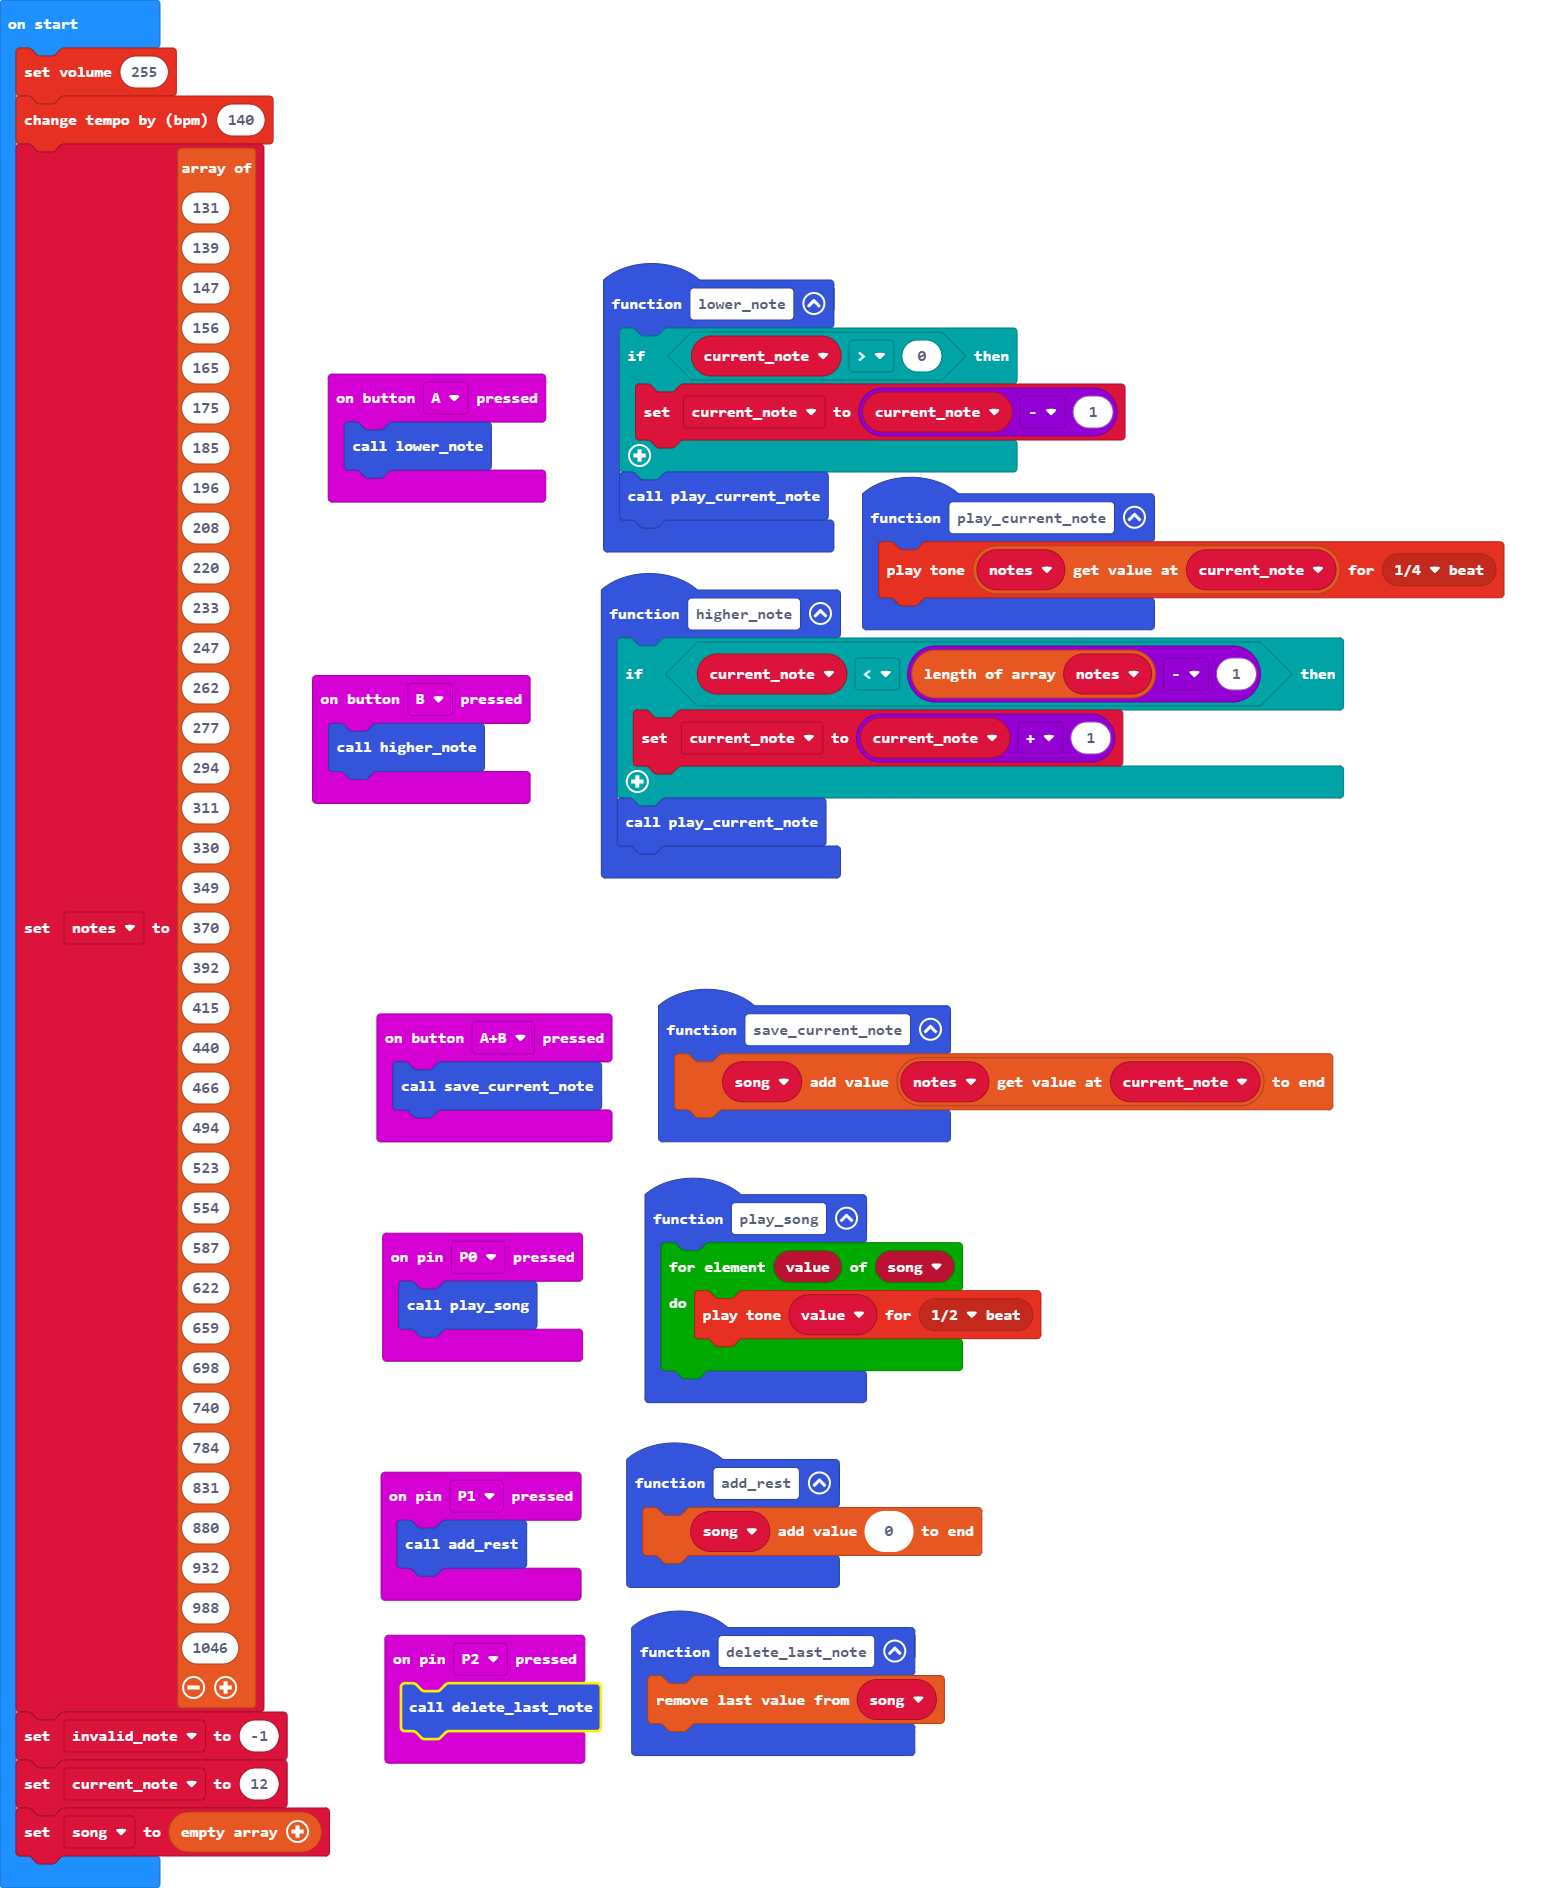
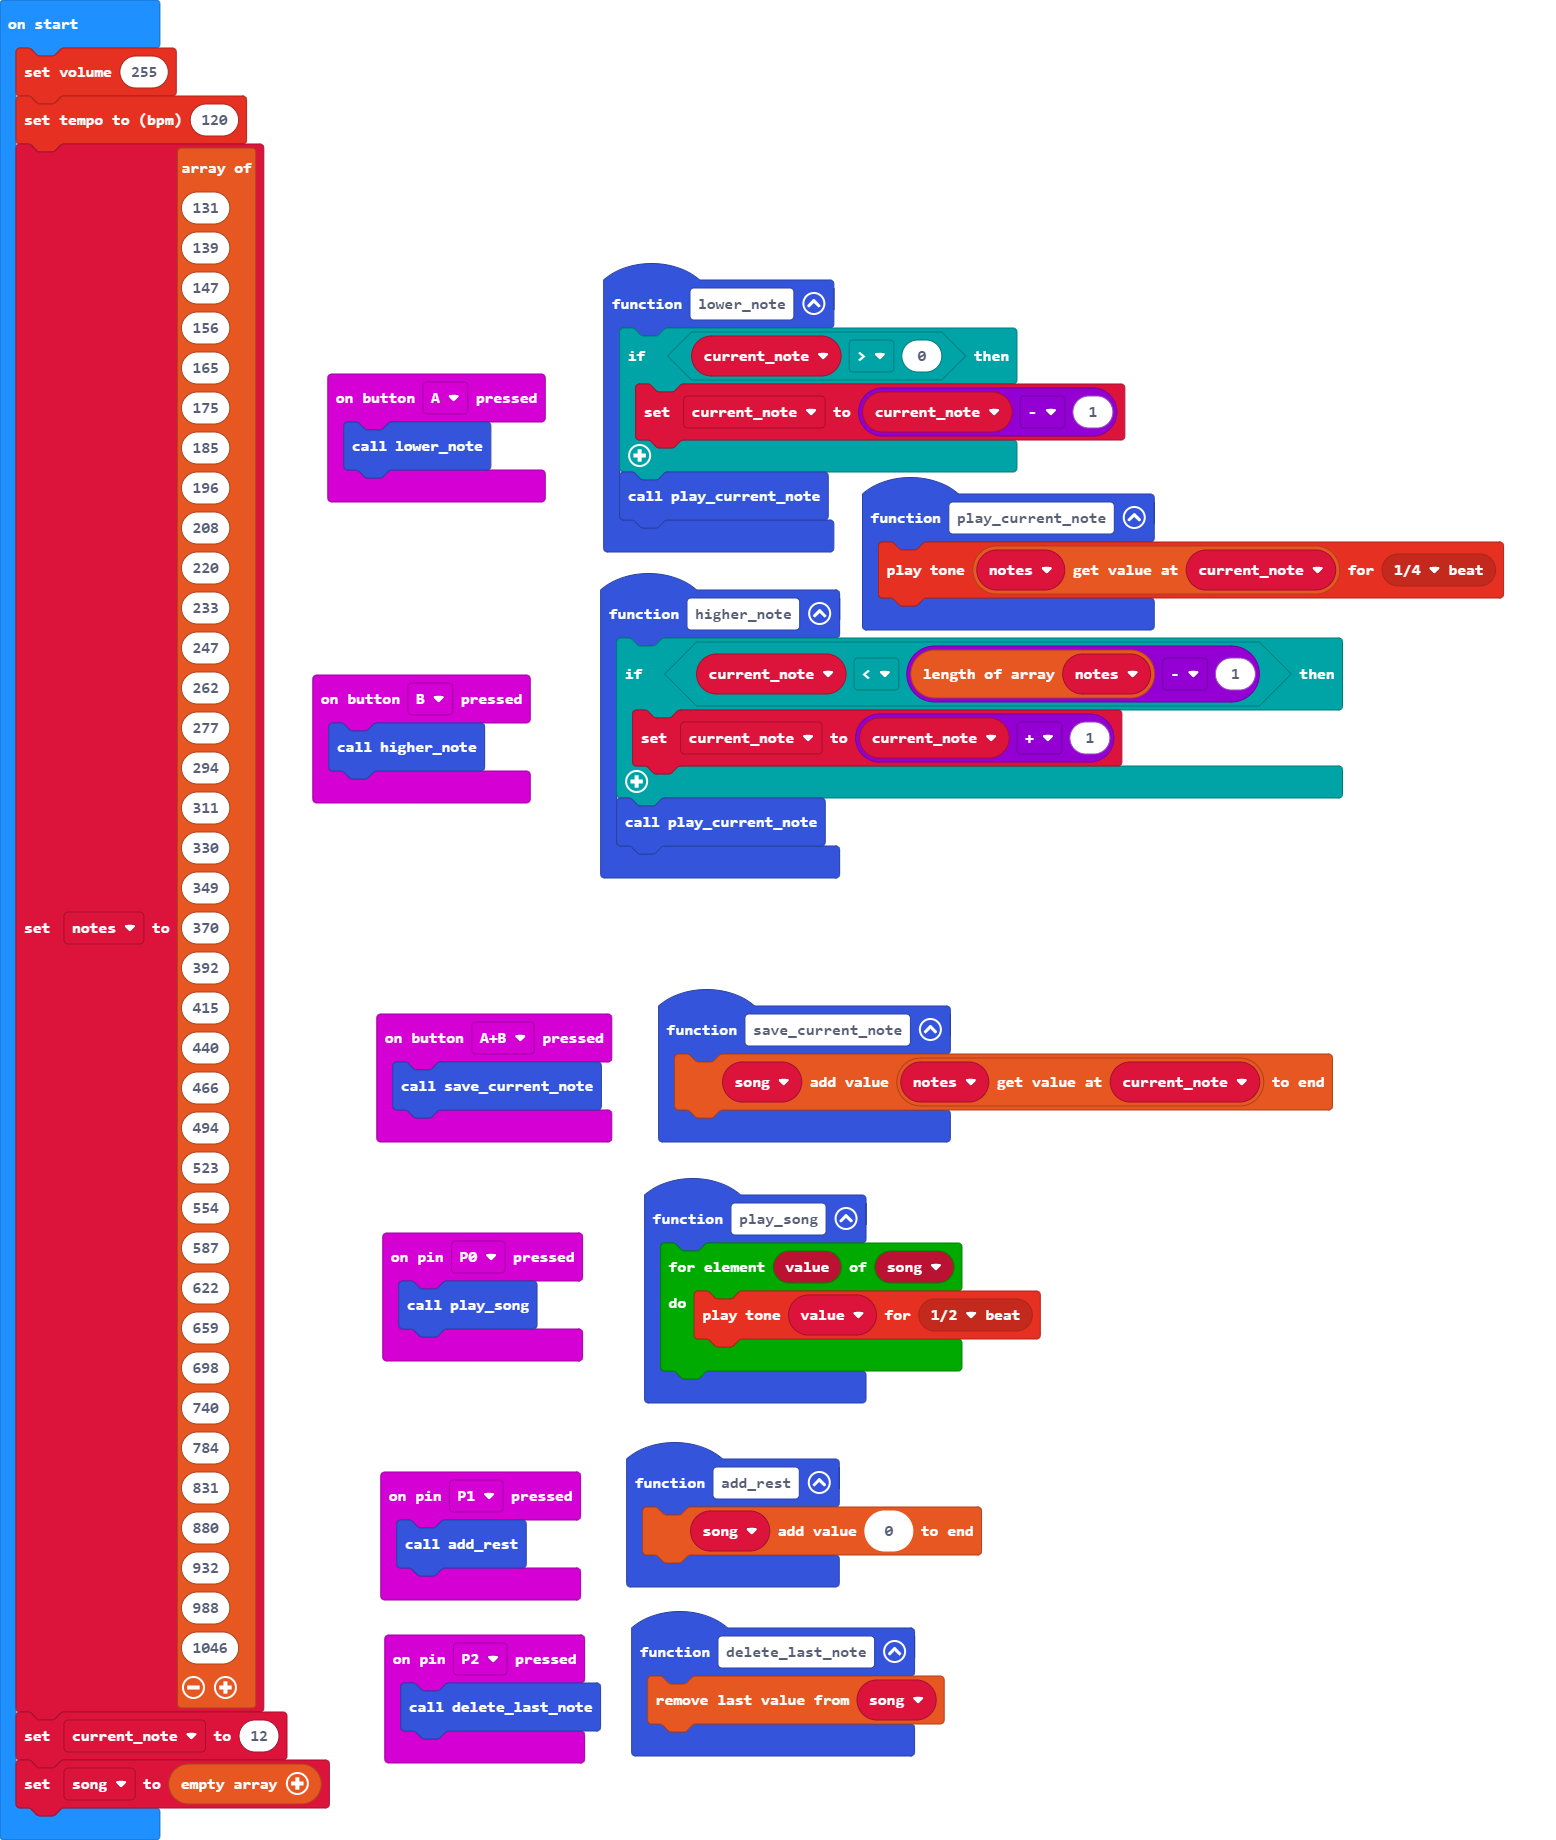
Update pxt.json, main.blocks, main.ts, main.py

diff --git a/main.ts b/main.ts
@@ -49,8 +49,7 @@ let song: number[] = []
 let current_note = 0
 let notes: number[] = []
 music.setVolume(255)
-music.changeTempoBy(140)
+music.setTempo(120)
 notes = [131, 139, 147, 156, 165, 175, 185, 196, 208, 220, 233, 247, 262, 277, 294, 311, 330, 349, 370, 392, 415, 440, 466, 494, 523, 554, 587, 622, 659, 698, 740, 784, 831, 880, 932, 988, 1046]
-let invalid_note = -1
 current_note = 12
 song = []

diff --git a/main.py b/main.py
@@ -1,48 +1,50 @@
-def on_button_pressed_a():
-    music.set_volume(255)
-    music.change_tempo_by(140)
-input.on_button_pressed(Button.A, on_button_pressed_a)
-
-def noteToFrequency(text: str):
-    if text == "A4":
-        return 440
-    return invalid_note
-invalid_note = 0
-notes = [131,
-    139,
-    147,
-    156,
-    165,
-    175,
-    185,
-    196,
-    208,
-    220,
-    233,
-    247,
-    262,
-    277,
-    294,
-    311,
-    330,
-    349,
-    370,
-    392,
-    415,
-    440,
-    466,
-    494,
-    523,
-    554,
-    587,
-    622,
-    659,
-    698,
-    740,
-    784,
-    831,
-    880,
-    932,
-    988]
-invalid_note = -1
-current_note = 0
+input.onPinPressed(TouchPin.P0, function () {
+    play_song()
+})
+input.onButtonPressed(Button.A, function () {
+    lower_note()
+})
+function lower_note () {
+    if (current_note > 0) {
+        current_note = current_note - 1
+    }
+    play_current_note()
+}
+input.onPinPressed(TouchPin.P2, function () {
+    song.pop()
+})
+function save_current_note () {
+    song.push(notes[current_note])
+}
+input.onButtonPressed(Button.AB, function () {
+    save_current_note()
+})
+input.onButtonPressed(Button.B, function () {
+    higher_note()
+})
+input.onPinPressed(TouchPin.P1, function () {
+    basic.showNumber(current_note)
+})
+function play_current_note () {
+    music.playTone(notes[current_note], music.beat(BeatFraction.Half))
+}
+function play_song () {
+    for (let value of song) {
+        music.playTone(value, music.beat(BeatFraction.Half))
+    }
+}
+function higher_note () {
+    if (current_note < notes.length - 1) {
+        current_note = current_note + 1
+    }
+    play_current_note()
+}
+let song: number = []
+let current_note: number = []
+let notes: number = []
+music.setVolume(255)
+music.changeTempoBy(140)
+notes = [131, 139, 147, 156, 165, 175, 185, 196, 208, 220, 233, 247, 262, 277, 294, 311, 330, 349, 370, 392, 415, 440, 466, 494, 523, 554, 587, 622, 659, 698, 740, 784, 831, 880, 932, 988, 1046]
+let invalid_note = -1
+current_note = 12
+song = []
